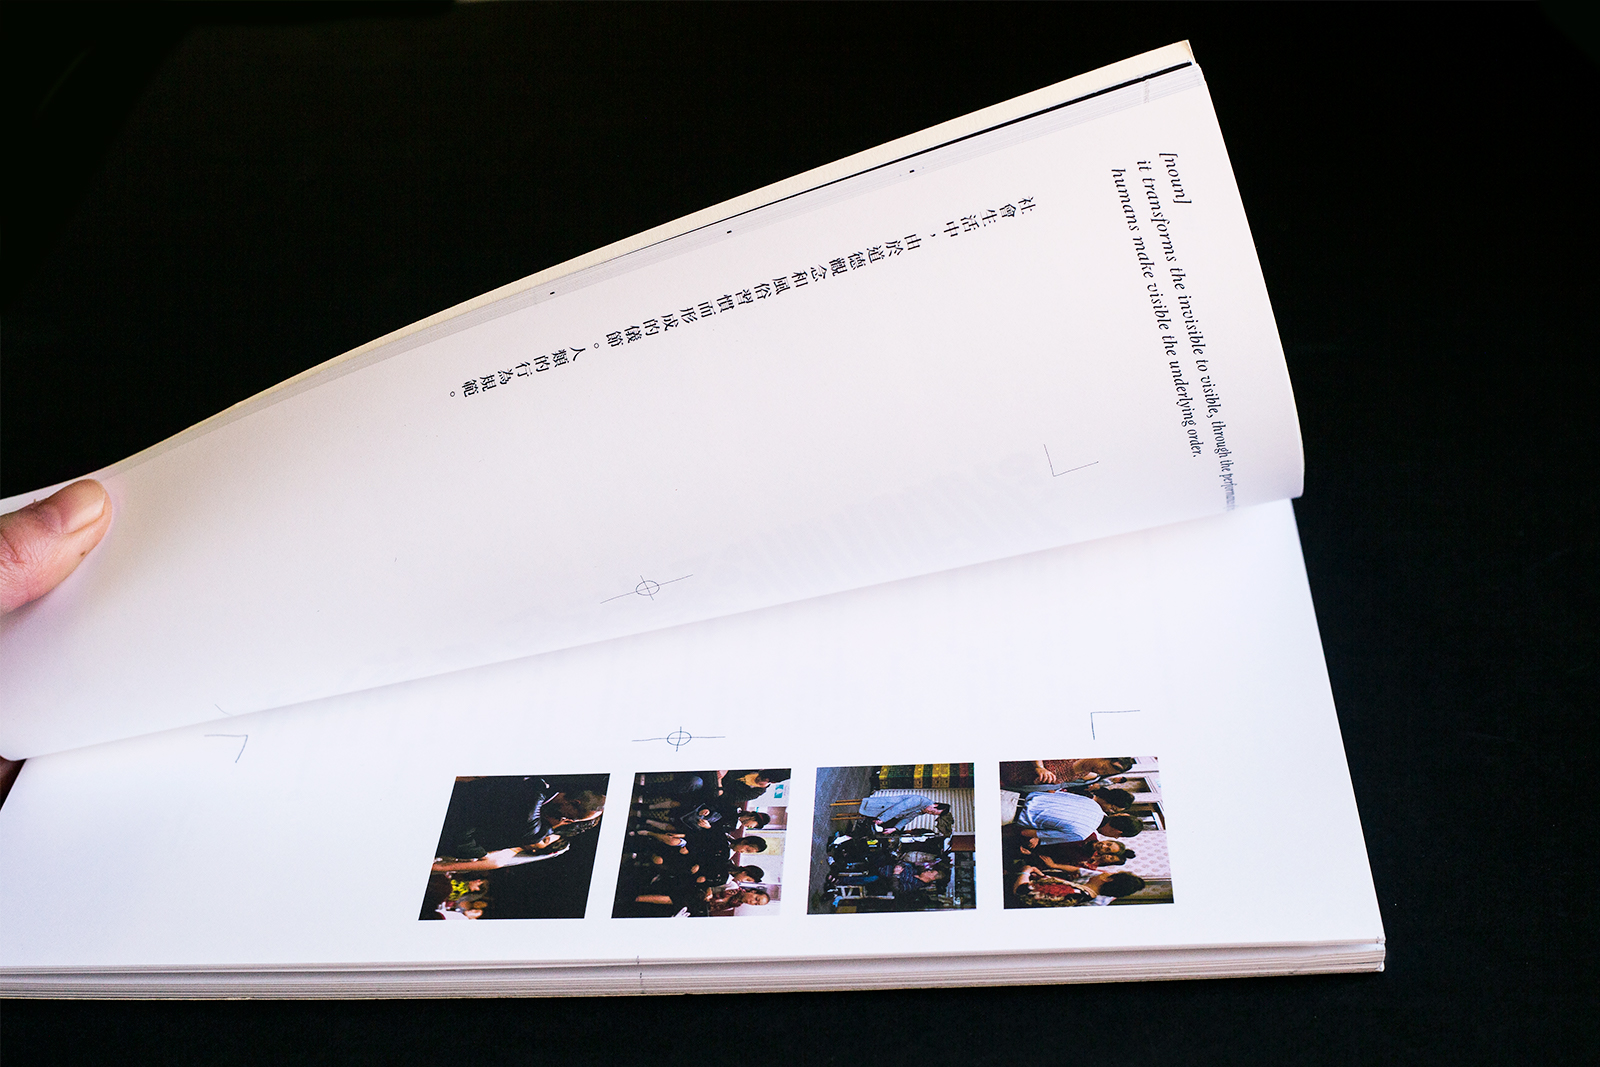
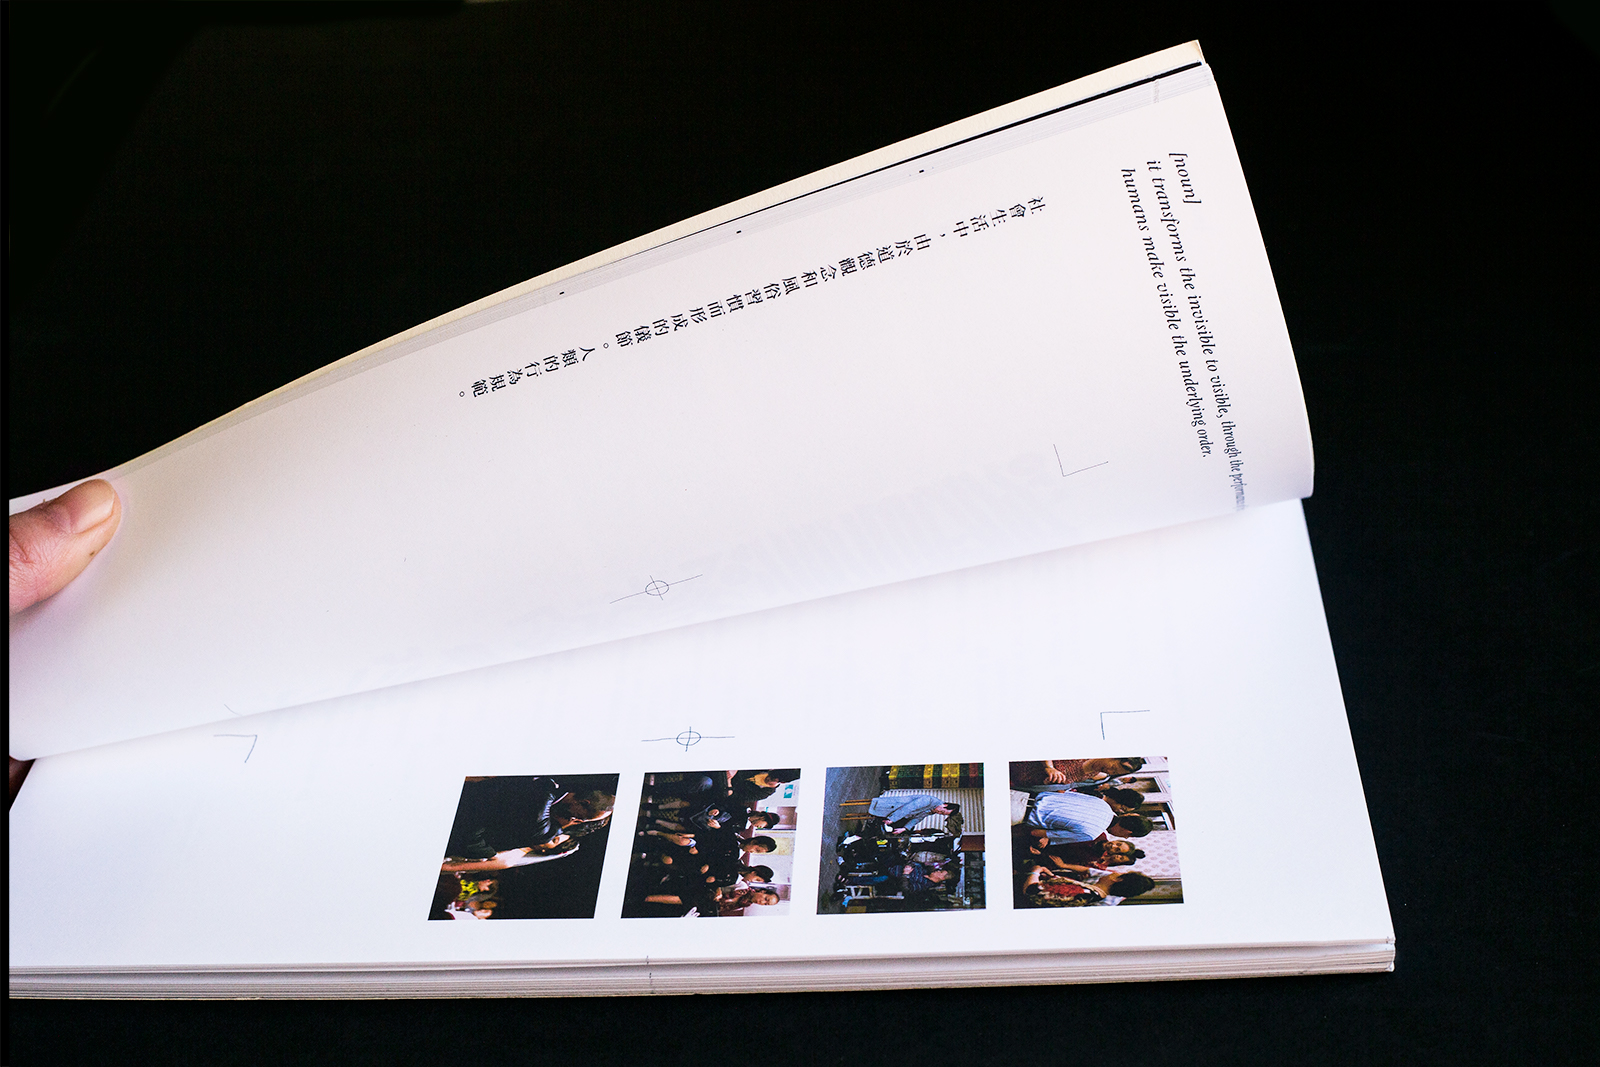
28-10

diff --git a/index-28.html b/index-28.html
@@ -228,8 +228,34 @@
 
 
     <div class="a" id="b-10"></div>
-    <div class="two-img-center" id="a-10">
-      <img class="img-100" src="img/thesisbook/0.jpg">
+    <div class="swiper-container swiper10">
+      <div class="swiper-wrapper">
+
+        <div class="swiper-slide">
+          <img src="img/28/09-1.jpg">
+        </div>
+
+        <div class="swiper-slide">
+          <img src="img/28/09-2.jpg">
+        </div>
+
+        <div class="swiper-slide">
+          <img src="img/28/10.jpg">
+        </div>
+
+        <div class="swiper-slide">
+          <img src="img/thesisbook/0.jpg">
+        </div>
+
+
+      </div>
+
+      <button class="swiper-plugin-navigation-prevEl navigation-prevEl10">
+        (
+      </button>
+      <button class="swiper-plugin-navigation-nextEl navigation-nextEl10">
+        )
+      </button>
     </div>
 
   </div>

diff --git a/functionsPage-28.js b/functionsPage-28.js
@@ -25,7 +25,7 @@ const options = {
     $(".swiper7").hide();
     $(".swiper8").hide();
     $("#a-09").hide();
-    $("#a-10").hide();
+    $(".swiper10").hide();
   });
 
 
@@ -144,10 +144,20 @@ const options = {
     $("#a-09").hide();
   });
 
+  var swiper10 = new Swiper(".swiper10", {
+    mousewheel: {
+      invert: false,
+      interval: 400
+    },
+    navigation: {
+      prevEl: ".navigation-prevEl10",
+      nextEl: ".navigation-nextEl10"
+    },
+    plugins: [SwiperPluginNavigation]
+  });
 
-
-  $("#a-10").hide();
+  $(".swiper10").hide();
   $("#b-10").click(function(){
-    $("#a-10").toggle();
+    $(".swiper10").toggle();
     $(".swiper8").hide();
   });
